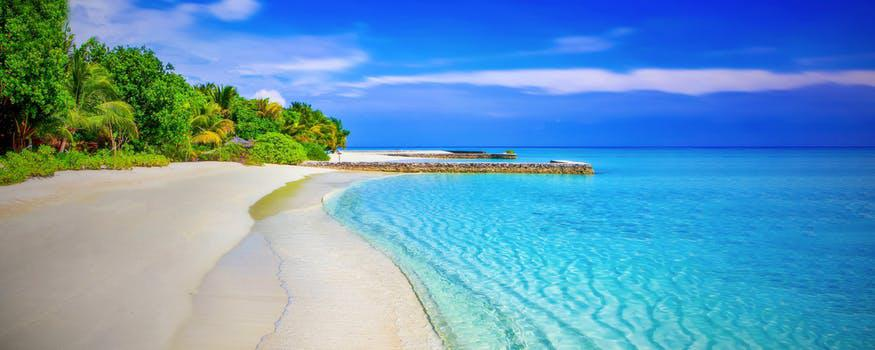
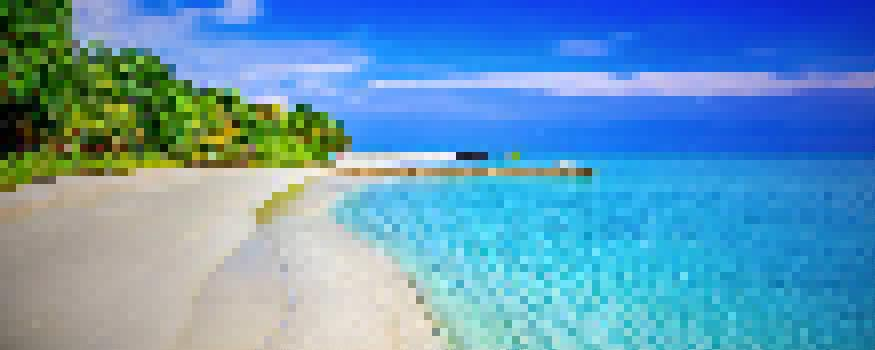
tested gui for pixelate and crop

diff --git a/main.py b/main.py
@@ -70,6 +70,11 @@ class gui(tk.Tk):
         self.hScroll.config(command=self.pictureWindow.xview)
         self.pictureWindow.grid(row=5, column=0, columnspan=10)
         self.pictureWindow.create_image(0,0,image=self.img, anchor='nw')
+        self.pictureSizeLabel = tk.Label(self, text="Dimensions of current Image")
+        self.pictureSizeLabel.grid(row=3, column=3)
+        sizePrint = '(' + str(sizeOfNewImage[0]) + ', ' + str(sizeOfNewImage[1]) + ')'
+        self.pictureSize = tk.Label(self, text=sizePrint)
+        self.pictureSize.grid(row=4, column=3)
         self.loadChoices()
 
     def loadImage(self):
@@ -84,6 +89,11 @@ class gui(tk.Tk):
         self.hScroll.config(command=self.pictureWindow.xview)
         self.pictureWindow.grid(row=5, column=0, columnspan=10)
         self.pictureWindow.create_image(0,0,image=self.img, anchor='nw')
+        self.pictureSizeLabel = tk.Label(self, text="Dimensions of current Image")
+        self.pictureSizeLabel.grid(row=3, column=3)
+        sizePrint = '(' + str(sizeOfNewImage[0]) + ', ' + str(sizeOfNewImage[1]) + ')'
+        self.pictureSize = tk.Label(self, text=sizePrint)
+        self.pictureSize.grid(row=4, column=3)
 
     def loadChoices(self):
         Label(self, text="Please Click on one of the choices below", font="Times 20 bold").grid(row=7, column=0,columnspan=8)
@@ -102,7 +112,7 @@ class gui(tk.Tk):
         self.saveButton= tk.Button(self, text="Save", command=self.savePicture).grid(row=11, column=2, sticky='N')
         self.exitButton= tk.Button(self, text="Exit", command=self.destroy).grid(row=12, column=0, sticky='N')
 
-    def pixleImage(self):
+    def pixelImage(self):
         self.pixelInputLabel = tk.Label(self, text="Please Enter in the dimensions and factor of the area you want to pixelate")
         self.pixelInputLabel.grid(row=8, column=5)
         self.pixelEntryXStartLabel = tk.Label(self, text="X start")
@@ -125,9 +135,10 @@ class gui(tk.Tk):
         self.pixelEntryYEnd = tk.Entry(self)
         self.pixelEntryYEnd.grid(row=12, column=6)
 
-        self.pixelFactorLabel = tk.Label(self, text="Enter 1-5 for how pixelated you want the image")
+        self.pixelFactorLabel = tk.Label(self, text="Enter 1-5, based on how pixelated you want it")
+        self.pixelFactorLabel.grid(row=13, column=5)
         self.pixelFactorEntry = tk.Entry(self)
-        self.pixelFactorEntry.grid(row=13, column=5)
+        self.pixelFactorEntry.grid(row=13, column=6)
 
         self.pixelInputButton = tk.Button(self, text="Submit", command=self.pixel)
         self.pixelInputButton.grid(row=14, column=6)
